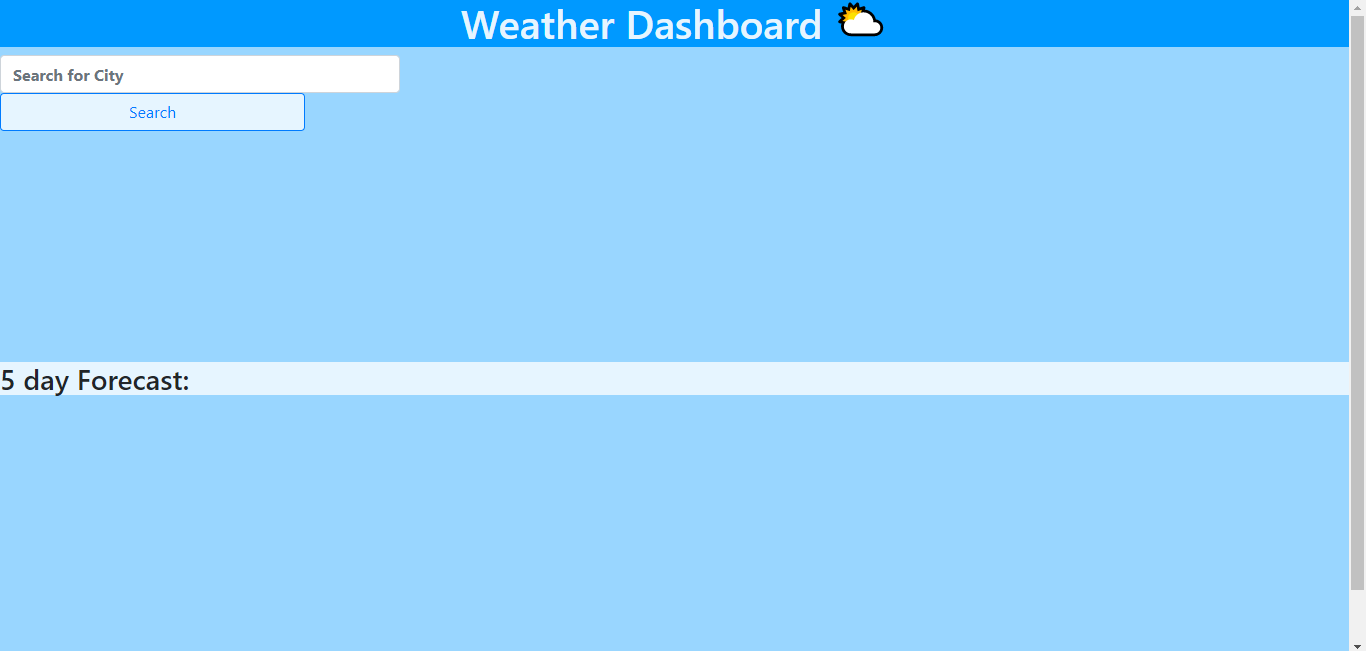
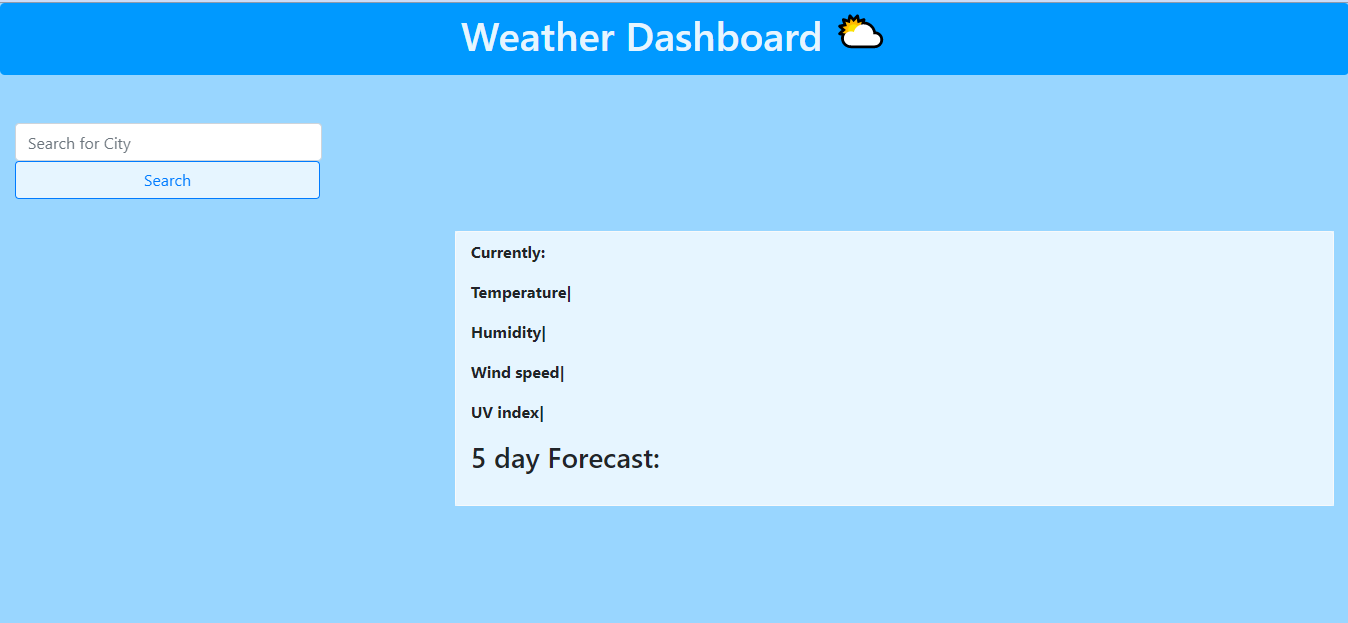
updates to page format

diff --git a/index.html b/index.html
@@ -45,7 +45,7 @@
     <div class= "row border border-light rounded">
         <div class="col-sm-12" id="current-day">
       <h2 class="current-city"></h2>
-      <p>Date</p>
+      <p>Currently:</p>
       <p>Temperature|<span class="city-current" id="temp"></span></p>
       <p>Humidity|<span class="city-current" id="humidity"></span></p>
       <p>Wind speed|<span class="city-current" id="wind"></span></p>

diff --git a/assets/css/style.css b/assets/css/style.css
@@ -15,7 +15,7 @@
 
 body {
     background-color: var(--primary);
-    
+    font-family: Garamond (serif);
 }
 
 
